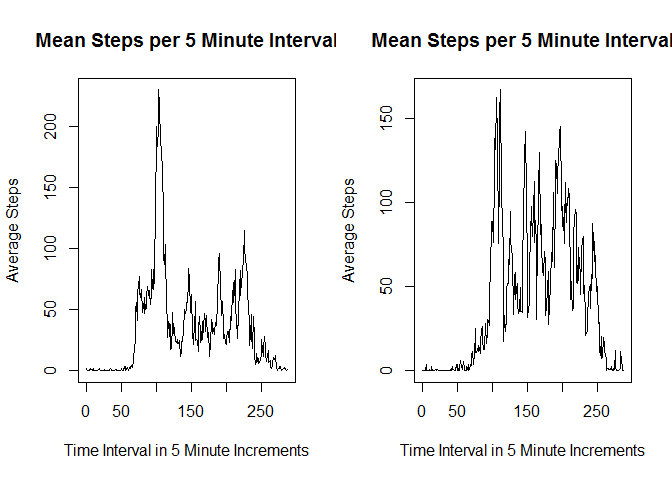
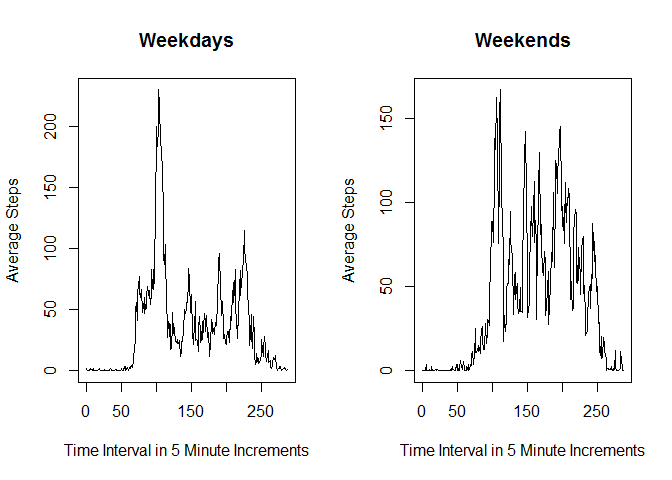
Corrected error in last plot

Changed region(s): [[0.0312, 0.0625, 0.5, 0.125], [0.5312, 0.0625, 1.0, 0.125]]

diff --git a/PA1_template.html b/PA1_template.html
@@ -182,11 +182,11 @@ dat4 &lt;- subset(dat2, dow2=='weekend')</code></pre>
 <pre class="r"><code>par(mfrow = c(1,2))
 plot(tapply(dat3$steps, dat3$interval, mean), type=&quot;l&quot;,
      xlab = &quot;Time Interval in 5 Minute Increments&quot;,
-     ylab= &quot;Average Steps&quot;, main = &quot;Mean Steps per 5 Minute Interval&quot;)
+     ylab= &quot;Average Steps&quot;, main = &quot;Weekdays&quot;)
 plot(tapply(dat4$steps, dat4$interval, mean), type=&quot;l&quot;,
      xlab = &quot;Time Interval in 5 Minute Increments&quot;,
-     ylab= &quot;Average Steps&quot;, main = &quot;Mean Steps per 5 Minute Interval&quot;)</code></pre>
[1 lines of base64/hex data omitted]
+     ylab= &quot;Average Steps&quot;, main = &quot;Weekends&quot;)</code></pre>
[1 lines of base64/hex data omitted]
 
 
 </div>

diff --git a/PA1_template.md b/PA1_template.md
@@ -201,10 +201,10 @@ Create time series panel plot with weekend and weekday
 par(mfrow = c(1,2))
 plot(tapply(dat3$steps, dat3$interval, mean), type="l",
      xlab = "Time Interval in 5 Minute Increments",
-     ylab= "Average Steps", main = "Mean Steps per 5 Minute Interval")
+     ylab= "Average Steps", main = "Weekdays")
 plot(tapply(dat4$steps, dat4$interval, mean), type="l",
      xlab = "Time Interval in 5 Minute Increments",
-     ylab= "Average Steps", main = "Mean Steps per 5 Minute Interval")
+     ylab= "Average Steps", main = "Weekends")
 ```
 
 ![](PA1_template_files/figure-html/unnamed-chunk-15-1.png) 
